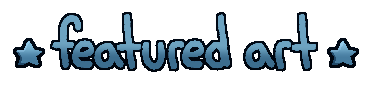
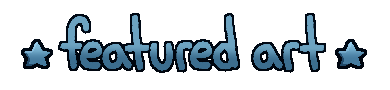
h

Changed region(s): [[0.0308, 0.1348, 0.9538, 0.8315]]

diff --git a/docs/index.html b/docs/index.html
@@ -70,18 +70,23 @@
         <img src="/images/spb-splash-placeholder.png" width="70%" style="border-radius: 15px; margin-bottom: 20px;"  draggable="false"> </div>
         
         
-<!-- `Mobile Only Links + Mobile Welcome -->
+<!-- `Mobile Only Links + Mobile Welcome Mobile -->
         
         <div class="show-on-mobile"> 
 
             
-            
-                    <div class="boxed4" style="background: url(/images/checkersmall.gif); background-size: 15%; width: 100%;"><img src="/images/welcome2.png" class="boxheader" width="230px;" ><br>
-                        <div class="tbox" style="padding: 3px; margin: 3px; padding-top: 12px;">
-                        <a href="#sitemap"><button style="margin: 2px;">Sitemap</button></a>
-            <a href="#latestart"><button style="margin: 2px; padding: 3px;">Latest Art</button></a>
-    <a href="#blogposts"><button style="margin: 2px; padding: 3px;">Blogposts</button></a>
-    <a href="#radiooo"><button style="margin: 2px; padding: 3px;">Radio</button></a><br>
+<!--     Mobile buttons       -->
+                    <div class="boxed4" style="background: url(/images/checker.png); background-size: 80%; width: 100%;" id="animatedBackground"><img src="/images/welcome2.png" class="boxheader" width="230px;" ><br>
+                        <div class="tbox" style="padding: 3px; margin: 2px; padding-top: 12px;">
+                        <a href="#sitemap"><button style="margin: 2px; margin-bottom: 10px;" type="button">Sitemap</button></a>
+                        <a href="#news"><button style="margin: 2px; margin-bottom: 10px;">News</button></a>
+                        <a href="#blogposts"><button style="margin: 2px; margin-bottom: 10px;">Blogposts</button></a>  <br>
+                        <a href="#featuredart"><button style="margin: 2px; margin-bottom: 10px;">Featured Art</button></a>
+            <a href="#latestart"><button style="margin: 2px; margin-bottom: 10px; ">Latest Art</button></a>
+    <a href="#radiooo"><button style="margin: 2px;  margin-bottom: 10px;">Radio</button></a><br>
+                            
+                            
+                            
                         <div style="font-size: 10px; padding: 3px;"><a href="/updatelog"><div id="lastmodbox2"></div> </a></div>
                 
               <script>
@@ -97,10 +102,10 @@
             Hey there, welcome to my website! I'm Snacks, an artist and animator just carving out my own little place on the net. Thanks&nbsp;for&nbsp;visiting!
 
             
-            <div class="tbox" style=" margin-right: auto; margin-left: auto;padding-left: 0px; padding-right: 0px;padding-top: 5px;padding-bottom: 5px;justify-content: center;
+            <div class="tbox" style=" margin-right: auto; margin-left: auto;padding-left: 0px; padding-right: 0px;padding-top: 15px;padding-bottom: 5px;justify-content: center;
           align-content: center; width: 95%; margin-bottom: 0px;">
     <div  style="padding: 0px;"> <!-- all your stamps go after this, as regular 17images -->
-        <marquee>
+        <marquee scrollamount="4">
         <img src="/images/stamps/hk.png" />
         <img src="/images/stamps/toonlinkfan.png" />
         <img src="/images/stamps/awk.jpg" />
@@ -139,11 +144,14 @@
                 <script src="js/lg-zoom.umd.js"></script>
                 <script src="js/lg-video.umd.js"></script>
         
-        <div class="boxed4" id="animatedBackground2" style="width: 100%;background: url(/images/checker-diamond-stars.png); background-size: 15%; ">
-            <div class="noselect"> <a href="/gallery">
-            <img class="boxheader image-hover-highlight" style="margin-bottom: -20px; margin-top: -50px; width: 60%;" src="/images/boxheader-featured-art2.png" alt="featured art" draggable="false" id="featuredart"></a></div>
+        <div class="boxed4" id="animatedBackground2" style="width: 100%;background: url(/images/checker-diamond-stars.png); background-size: 15%; background-position: 0% 33%; ">
+            
+<!--     boxheader       -->
+            <a href="/gallery">
+            <img class="boxheader image-hover-highlight" style="margin-bottom: -20px; margin-top: -50px; max-width: 100%;" src="/images/boxheader-featured-art2.png" alt="featured art" draggable="false" id="featuredart"></a>
             
             
+<!--     featured big preview       -->
             <a href="/gallery"><img id="randomImage" class="featuredart" style="max-height: 500px; border-radius: 15px; margin-top: 10px;  max-width: 100%;        box-shadow: 0px 0px 20px #000e1c;"  /> </a>
             <script>
                 document.getElementById("randomImage").src = "feat" + Math.floor(Math.random() * 9) + ".jpg";
@@ -183,11 +191,15 @@
 <!--    `Latest Art    -->
         <div class="boxed4" style="width: 100%;background: url(/images/checker-diamond.png); background-size: 15%;" id="animatedBackground2">
             
+            
+<!--     boxheader       -->
+            
                         <a href="/gallery/artfeed.html">
-                        <img class="boxheader image-hover-highlight" style="margin-bottom: -20px; margin-top: -50px;width: 60%;" src="/images/boxheader-latest-art2.png" alt="featured art"  draggable="false" id="latestart"></a><br>
+                        <img class="boxheader image-hover-highlight" style="margin-bottom: -20px; margin-top: -50px;max-width: 100%;" src="/images/boxheader-latest-art2.png" alt="featured art"  draggable="false" id="latestart"></a><br>
             
-            
+<!--     latest big preview       -->
             <a href="/gallery/artfeed"><img src="images/gallery/latest.jpg" class="featuredart" style="max-height: 500px; border-radius: 15px; margin-top: 10px;  max-width: 100%;        box-shadow: 0px 0px 20px #000e1c;"  /> </a>
+            
                     <div id="lightgallery2" >
                         
 <!--           `Latest Art - insert images here             -->
@@ -244,13 +256,16 @@
 
     
 <!--  `Sitemap  -->
-            <br>
+            <br> 
                 <div class="boxed4" style="margin-bottom: 30px;padding-right: 0px; line-height: 22px;background-color: #00121d;
 opacity: 1;
-background-image:  repeating-radial-gradient( circle at 0 0, transparent 0, #00121d 28px ), repeating-linear-gradient( #00375955, #003759 ); margin-top: 0px;">
-                    <img class="boxheader noselect" style="margin-top: -50px;  margin-bottom: -5px;" src="/images/boxheader-sitemap5.gif" alt="sitemap"  draggable="false" id="news" >   </a>              <br>
+background-image:  repeating-radial-gradient( circle at 0 0, transparent 0, #00121d 28px ), repeating-linear-gradient( #00375955, #003759 ); margin-top: 0px;" >
                     
-                    <div class="tbox" style="text-align: left;height: 550px;overflow-y: scroll; padding-top: 15px;padding-left: 12px;padding-right: 2px; box-shadow: 0px 0px 5px #000e1c;margin-bottom: 10px; margin-top: 0px;">
+<!--         boxheader           -->
+                    
+                    <img class="boxheader noselect" style="margin-top: -50px;  margin-bottom: -5px; width: 100%;" src="/images/boxheader-sitemap5.gif" alt="sitemap"  draggable="false" id="sitemap" >                 <br>
+                    
+                    <div class="tbox" style="text-align: left;height: 580px;overflow-y: scroll; padding-top: 15px;padding-left: 12px;padding-right: 2px; box-shadow: 0px 0px 5px #000e1c;margin-bottom: 10px; margin-top: -20px;">
                         
 
             <ul class="li-sitemap">
@@ -329,18 +344,18 @@ background-image:  repeating-radial-gradient( circle at 0 0, transparent 0, #001
     </div>
     
 <!--  `News  -->
-    <br>
+    <br><br>
                 <div class="boxed4" style="margin-bottom: 30px;padding-right: 0px; line-height: 22px;">
                     <a href="/updatelog"><img class="boxheader image-hover-highlight" style="margin-top: -50px; width: 100%;" src="/images/boxheader-news.gif" alt="news"  draggable="false" id="news" >   </a>              <br>
                     
-                    <div class="tbox" style="text-align: left;height: 300px;overflow-y: scroll; padding-top: 15px;padding-left: 12px;padding-right: 2px; box-shadow: 0px 0px 5px #000e1c;margin-bottom: 10px;">
+                    <div class="tbox" style="text-align: left;height: 300px;overflow-y: scroll; padding-top: 15px;padding-left: 12px;padding-right: 2px; box-shadow: 0px 0px 5px #000e1c;margin-bottom: 10px; margin-top: -10px;">
                         
                          <details style= "cursor: pointer;"><summary><em>July&nbsp;2026</em> —  <a href="/gallery/forothers#artfight">ArtFight Drawings</a> + General Update </summary> 
                              <div class="tbox" style="padding: 2px; padding-bottom: 2px;"><p style="font-size: 12px;line-height: 20px;"> where did the time go.. been goin through it but feeling a bit more energized, hope to make more updates and stuff in general soon! 🙏</p> 
                              </div> </details> 
                                 
 
-                        <hr class="small" style="width: 60%;margin-top: 10px;margin-bottom: 10px;">
+<hr class="small" style="width: 90%;margin-left: 0;margin-bottom: 15px;margin-top: 10px;">
                         
 <!-- Past News -->
                         <font color="#ddd" size=2 style="line-height: 20px;">
@@ -503,7 +518,10 @@ background-image:  repeating-radial-gradient( circle at 0 0, transparent 0, #001
                 
 <!--       Status.cafe Status         -->
                 
-        <div class="boxed4" id="animatedBackground" style="background: url(/images/checker.png); background-size: 50%;animation: animatedBackground 1000s linear infinite;">  <a href="https://status.cafe/users/snacksgg" target="_blank"><img class="boxheader image-hover-highlight" style="margin-bottom: -0px; margin-top: -50px;" src="/images/boxheader-status.gif" alt="status"  draggable="false" id="latestart" > </a>
+        <div class="boxed4" id="animatedBackground" style="background: url(/images/checker.png); background-size: 50%;animation: animatedBackground 1000s linear infinite; ">  <a href="https://status.cafe/users/snacksgg" target="_blank">
+            
+            <img class="boxheader image-hover-highlight" style="margin-bottom: -0px; margin-top: -50px;" src="/images/boxheader-status.gif" alt="status"  draggable="false" id="status" > </a>
+            
             <div style="background:rgba(0,0,0,.5); border-radius: 15px; font-size: 14px;">
             <div id="statuscafe" style="margin-top: 0px;"><div id="statuscafe-username"></div><div id="statuscafe-content"></div></div><script src="https://status.cafe/current-status.js?name=snacksgg" defer></script>
                 </div>
@@ -529,15 +547,19 @@ background-image:  repeating-radial-gradient( circle at 0 0, transparent 0, #001
        
         <div class="boxed4" style="background: url(/images/checkersmall3.jpg); background-size: 10%;animation: animatedBackground 1000s linear infinite; padding-top: 0px;padding-bottom: 0px;">
             
-            <a href="https://last.fm/user/snacksgg" target="_blank"><img class="boxheader image-hover-highlight" style="margin-bottom: -20px; margin-top: -50px;" src="/images/boxheader-lastfm.gif" alt="last.fm"  draggable="false" id="latestart" ></a>
+<!--     boxheader       -->
             
+            <a href="https://last.fm/user/snacksgg" target="_blank"><img class="boxheader image-hover-highlight" style="margin-bottom: -20px; margin-top: -50px;" src="/images/boxheader-lastfm.gif" alt="last.fm"  draggable="false" id="lastfm" ></a><br>
+            
+            
+<!--     last.fm img       -->
             
             <a href="https://last.fm/user/snacksgg" target="_blank"><img src="https://lastfm-recently-played.jeffreyca.workers.dev/svg?user=snacksgg&amp;theme=legacy&amp;radius=15&amp;logo=0&amp;footer=stats&amp;bg_color=3b0b00&amp;border=none" alt="last.fm recently played" style="margin-left:auto; margin-right:auto; padding-top: 10px;padding-bottom:10px;" onerror="this.src='/images/404-lastfm.png';" ></a>
                 </div>
         
 <!-- Chatbox -->
-        <div class="boxed4" style="background: url(/images/checker.png); background-size: 70%;animation: animatedBackground 1000s linear infinite;">
-            <a href="https://www3.cbox.ws/box/?boxid=3543718&boxtag=iLeb5s" target="_blank"><img class="boxheader image-hover-highlight" style="margin-bottom: -0px; margin-top: -50px;" src="/images/boxheader-chat.gif" alt="status"  draggable="false" id="latestart" > </a>
+        <div class="boxed4" style="background: url(/images/checker.png); background-size: 70%;animation: animatedBackground 1000s linear infinite; ">
+            <a href="https://www3.cbox.ws/box/?boxid=3543718&boxtag=iLeb5s" target="_blank"><img class="boxheader image-hover-highlight" style="margin-bottom: -0px; margin-top: -50px;" src="/images/boxheader-chat.gif" alt="status"  draggable="false" id="chatbox" > </a>
             
             <iframe src="https://www3.cbox.ws/box/?boxid=3543718&boxtag=iLeb5s" width="100%" height="400" allowtransparency="yes" allow="autoplay" frameborder="0" marginheight="0" marginwidth="0" scrolling="auto" style="border-radius: 15px;"></iframe>	</div>
                 

diff --git a/docs/main.css b/docs/main.css
@@ -326,6 +326,10 @@ body {
         max-height: 1220px;
 
     }
+    
+    img.boxheader {
+    background-size: 100% !important;
+}
 }
 
 
